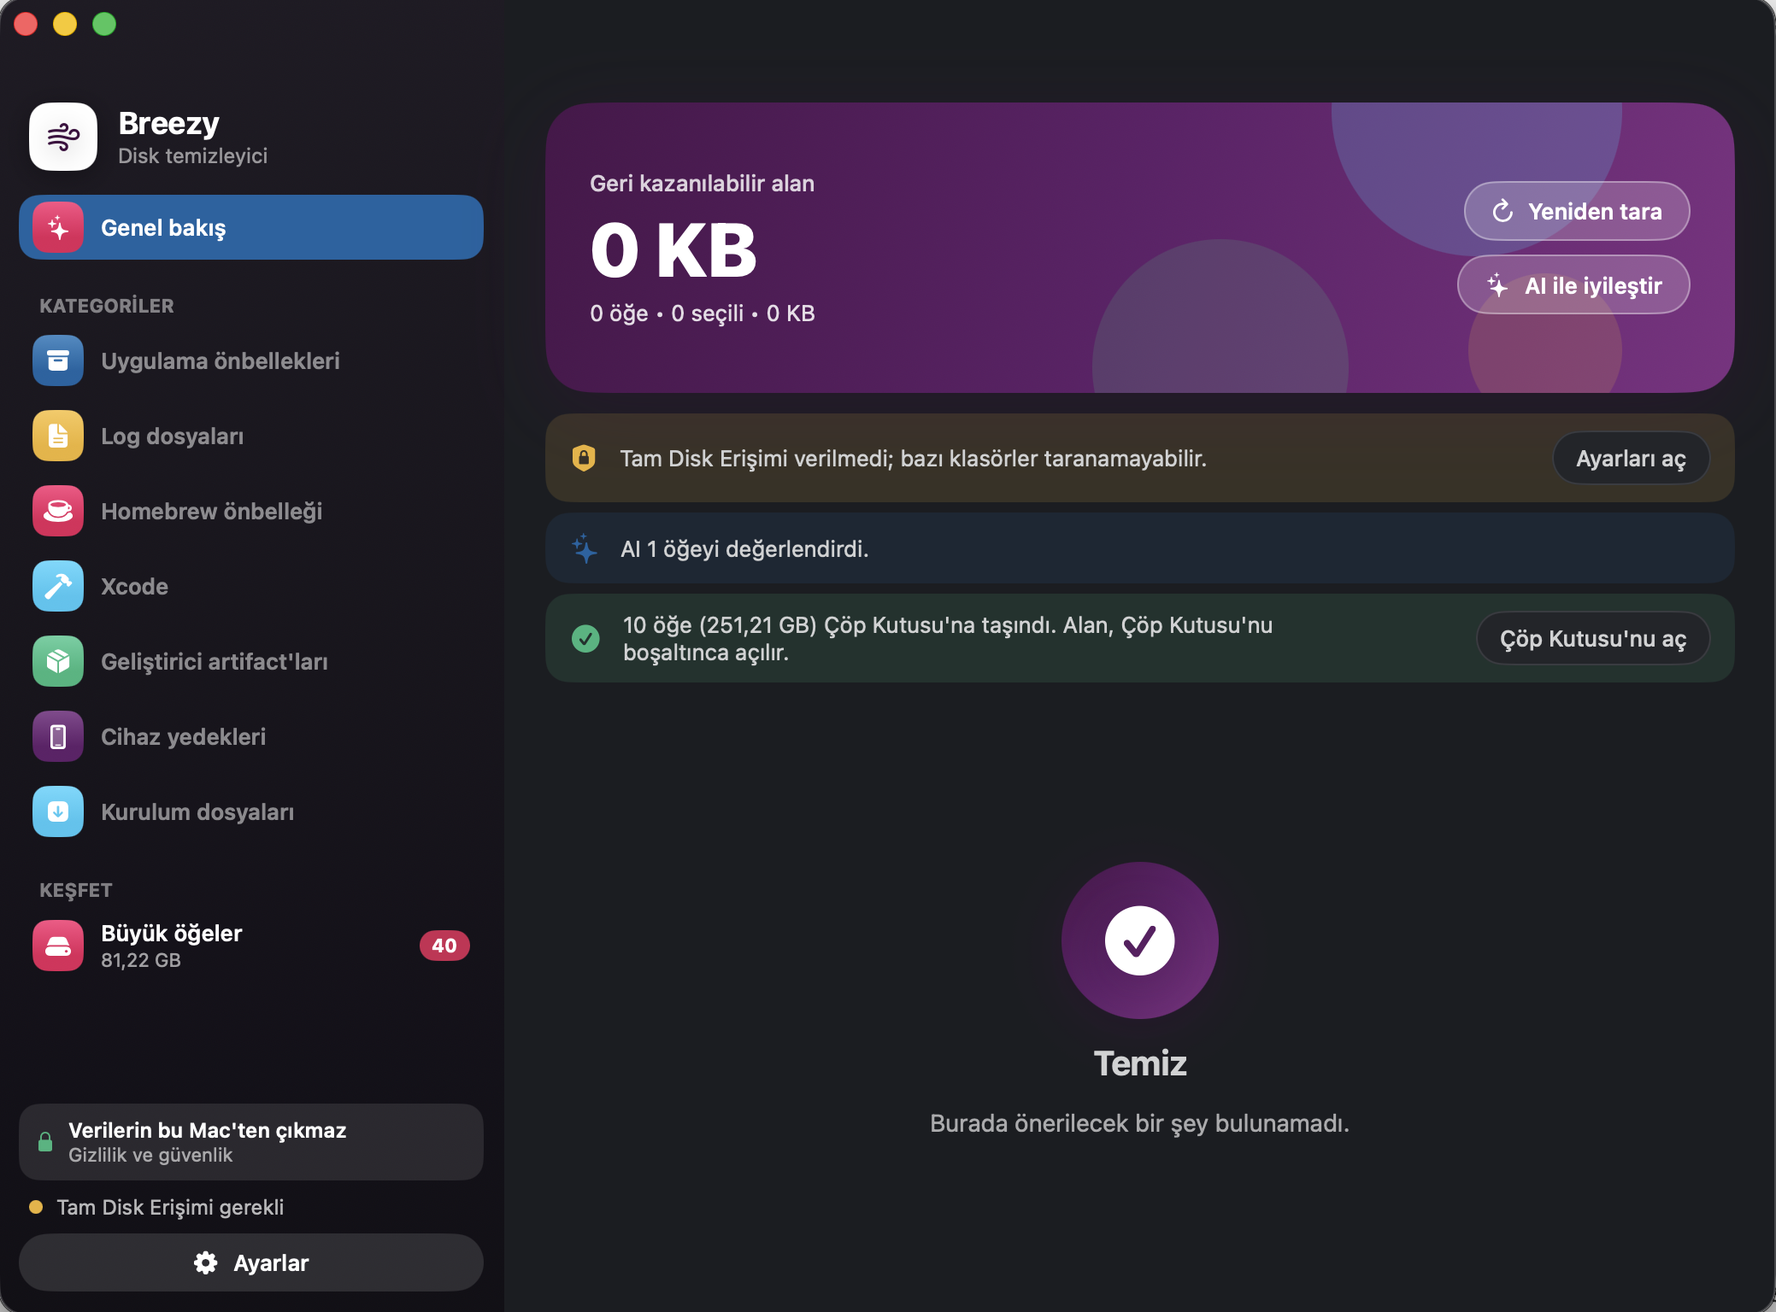
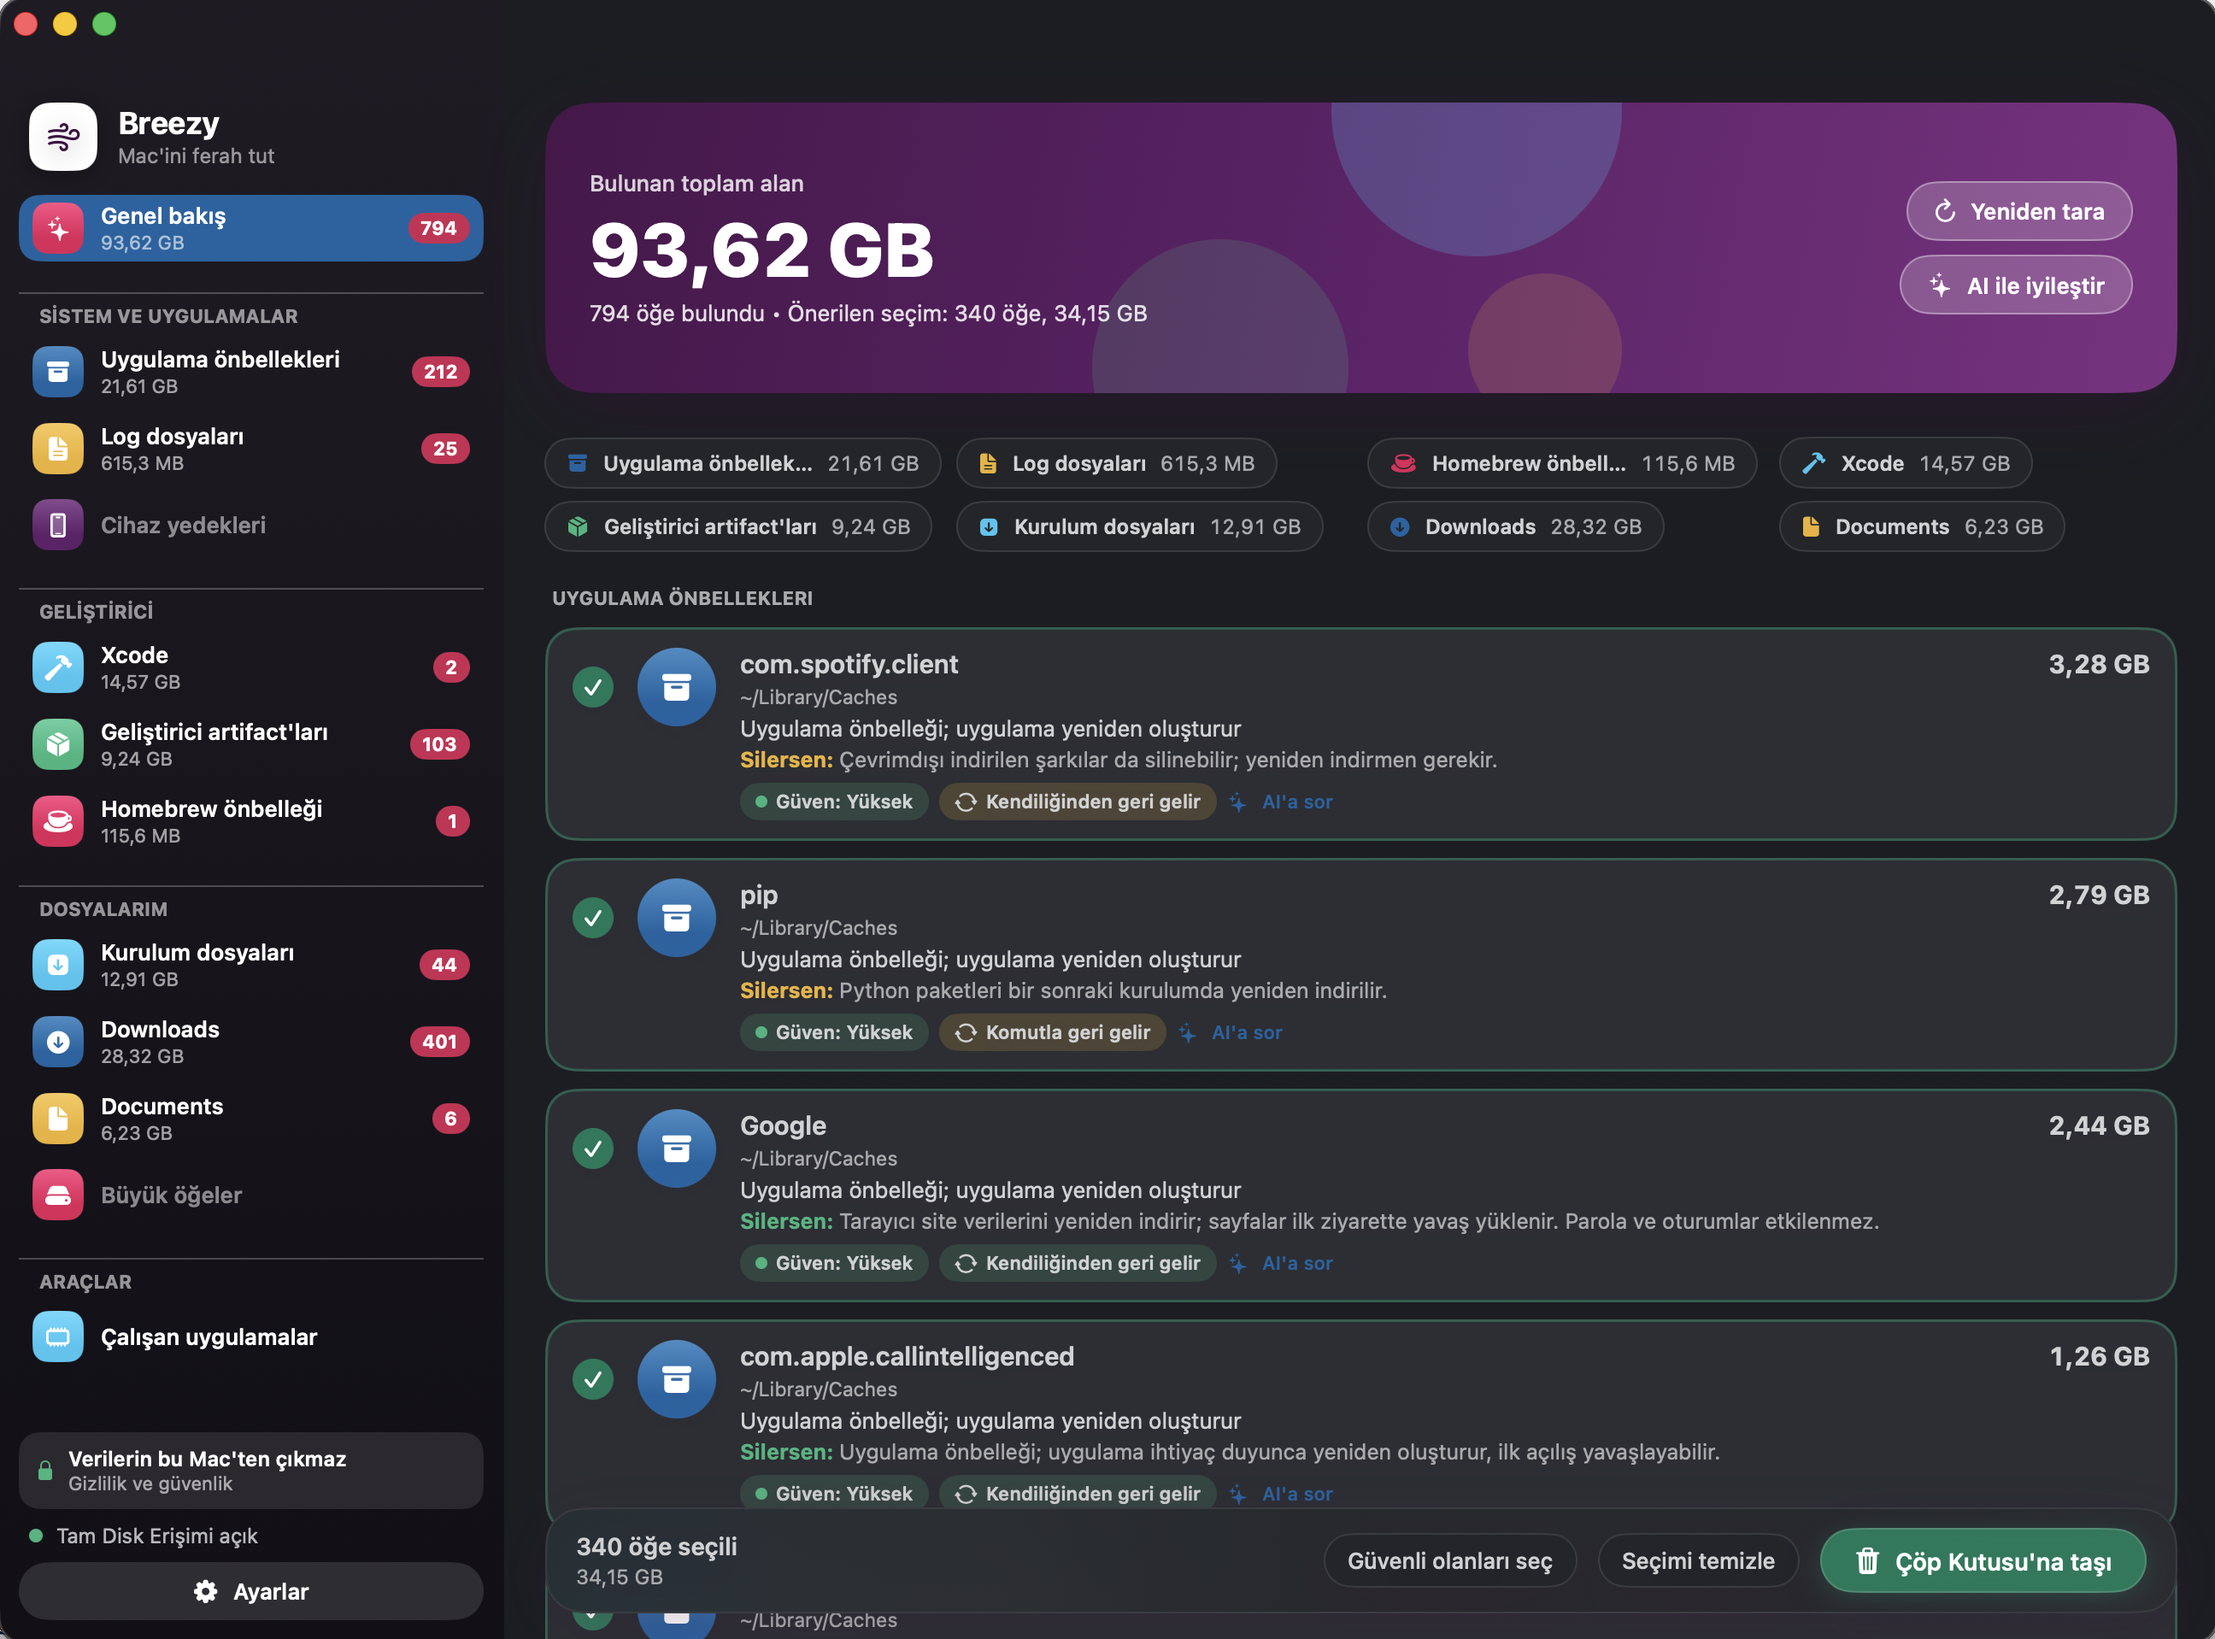
docs: refresh README and screenshot; fix truncated category pills

diff --git a/docs/index.html b/docs/index.html
@@ -160,7 +160,7 @@ footer{border-top:1px solid var(--line);padding:30px 0 50px;color:var(--muted);f
       <div class="card"><div class="ic" style="background:#e01e5a">🔎</div><h3>Büyük öğeler taraması</h3><p>Kural bilmese bile 100 MB / 1 GB / 5 GB üzeri klasör ve dosyaları bulur. Hiçbiri otomatik seçilmez.</p></div>
       <div class="card"><div class="ic" style="background:#2eb67d">🧭</div><h3>"Silersen ne olur?"</h3><p>Kendiliğinden / komutla / geri gelmez. JetBrains, Chrome, Spotify gibi bilinen uygulamalar için özel notlar.</p></div>
       <div class="card"><div class="ic" style="background:#611f69">✨</div><h3>AI danışmanı</h3><p>İsteğe bağlı. Toplu iyileştirme ya da her kartta "AI'a sor". Anthropic, OpenAI uyumlu veya şirket LLM'in.</p></div>
-      <div class="card"><div class="ic" style="background:#ecb22e">🗂</div><h3>Kategori bazlı tarama</h3><p>Soldaki kategoriyi seç, "Sadece bunu tara". Diğer sonuçların ve seçimlerin korunur.</p></div>
+      <div class="card"><div class="ic" style="background:#ecb22e">🗂</div><h3>Kategori bazlı tarama</h3><p>Soldaki kategoriyi seç, "Bu kategoriyi tara". Diğer sonuçların ve seçimlerin korunur.</p></div>
       <div class="card"><div class="ic" style="background:#007a5a">↩</div><h3>Güvenli temizlik</h3><p>Önce önizleme, sonra Çöp Kutusu. Her şey geri alınabilir. Korunan klasörler asla silinemez.</p></div>
     </div>
   </section>

diff --git a/Sources/CleanerApp/Theme.swift b/Sources/CleanerApp/Theme.swift
@@ -242,3 +242,29 @@ enum Format {
         n == 0 ? "0 KB" : ByteCountFormatter.string(fromByteCount: n, countStyle: .file)
     }
 }
+
+/// Öğeleri satır satır sarar; her öğe kendi doğal genişliğinde kalır.
+struct FlowLayout: Layout {
+    var spacing: CGFloat = 8
+
+    func sizeThatFits(proposal: ProposedViewSize, subviews: Subviews, cache: inout ()) -> CGSize {
+        arrange(subviews, width: proposal.width ?? .infinity).size
+    }
+
+    func placeSubviews(in bounds: CGRect, proposal: ProposedViewSize, subviews: Subviews, cache: inout ()) {
+        let r = arrange(subviews, width: bounds.width)
+        for (s, p) in zip(subviews, r.origins) { s.place(at: CGPoint(x: bounds.minX + p.x, y: bounds.minY + p.y), proposal: .unspecified) }
+    }
+
+    private func arrange(_ subviews: Subviews, width: CGFloat) -> (origins: [CGPoint], size: CGSize) {
+        var origins: [CGPoint] = []
+        var x: CGFloat = 0, y: CGFloat = 0, rowH: CGFloat = 0, maxW: CGFloat = 0
+        for s in subviews {
+            let sz = s.sizeThatFits(.unspecified)
+            if x > 0, x + sz.width > width { x = 0; y += rowH + spacing; rowH = 0 }
+            origins.append(CGPoint(x: x, y: y))
+            x += sz.width + spacing; rowH = max(rowH, sz.height); maxW = max(maxW, x - spacing)
+        }
+        return (origins, CGSize(width: maxW, height: y + rowH))
+    }
+}

diff --git a/Sources/CleanerApp/RootView.swift b/Sources/CleanerApp/RootView.swift
@@ -240,7 +240,7 @@ struct RootView: View {
     }
 
     private var categoryPills: some View {
-        LazyVGrid(columns: [GridItem(.adaptive(minimum: 230), spacing: 8, alignment: .leading)], alignment: .leading, spacing: 8) {
+        FlowLayout(spacing: 8) {
                 ForEach(model.grouped, id: \.category) { group in
                     let c = group.category
                     Button { filter = .category(c) } label: {

diff --git a/README.md b/README.md
@@ -1,12 +1,28 @@
+<div align="center">
+
+<img src="docs/icon.png" alt="Breezy" width="96" />
+
 # Breezy
 
-**Mac'ini güvenle ferahlat.** Gereksiz dosyaları bulur, silince ne olacağını açıklar ve yalnızca senin onayınla Çöp Kutusu'na taşır. Verilerin bu Mac'ten çıkmaz.
+**Mac'ini güvenle ferahlat.**
 
-> 🇬🇧 **English summary:** Breezy is a native, privacy-first macOS cleanup app (SwiftUI, macOS 26). It finds caches, logs, build artifacts, large forgotten items and more; explains what happens if you delete each one; and only ever moves things to the Trash after you approve. It makes no network connections unless you enable the optional AI advisor, which only ever sees redacted paths and sizes (never file contents) and only after you approve a preview of the exact message. See [Privacy & security](#gizlilik-ve-güvenlik) and [Build](#derleme-ve-çalıştırma).
+Gereksiz dosyaları bulur, silince ne olacağını açıklar ve yalnızca senin onayınla Çöp Kutusu'na taşır.<br/>
+Verilerin bu Mac'ten çıkmaz.
 
-![Breezy ana ekran](docs/images/image.png)
+![macOS 26](https://img.shields.io/badge/macOS-26-black?logo=apple)
+![Swift 6.2](https://img.shields.io/badge/Swift-6.2-orange?logo=swift)
+![SwiftUI](https://img.shields.io/badge/UI-SwiftUI-blue)
+![Tests](https://img.shields.io/badge/tests-88%20passing-brightgreen)
+![Privacy](https://img.shields.io/badge/telemetry-none-success)
+[![License: MIT](https://img.shields.io/badge/license-MIT-lightgrey)](LICENSE)
 
-Tanıtım sayfası: [`docs/index.html`](docs/index.html)
+[Özellikler](#özellikler) · [Derleme](#derleme-ve-çalıştırma) · [Gizlilik](#gizlilik-ve-güvenlik) · [Mimari](#mimari) · [Tanıtım sayfası](docs/index.html)
+
+<img src="docs/images/image.png" alt="Breezy ana ekran" width="900" />
+
+</div>
+
+> 🇬🇧 **English summary:** Breezy is a native, privacy-first macOS cleanup app (SwiftUI, macOS 26). It finds caches, logs, build artifacts, stale Downloads/Documents and large forgotten items; explains what happens if you delete each one; and only ever moves things to the Trash after you approve. It also warns you when your disk fills up and lists the apps using the most memory. It makes no network connections unless you enable the optional AI advisor, which only ever sees redacted paths and sizes. Build from source with `scripts/make-app.sh`.
 
 ---
 
@@ -40,7 +56,11 @@ Breezy üç şeye odaklanır:
 - **Akıllı tarama (hızlı):** Önbellekler, loglar, Homebrew, Xcode, geliştirici artifact'ları (`node_modules`, `target`, `build`, `.gradle`, Python `venv`/`__pycache__`), iOS/iPad yedekleri, Downloads'taki kurulum dosyaları. Gerçek bir disk üzerinde ~6 sn.
 - **Büyük öğeler (ayrı bölüm, ev dizini):** Kenar çubuğunda **Keşfet → Büyük öğeler**; kendi taraması, eşiği, listesi, seçimi ve temizliği vardır, "Genel bakış" toplamlarına ve seçimine karışmaz.
    Eşiğin (100 MB / 500 MB / **1 GB** / 5 GB) üzerindeki klasör ve dosyaları, kural bilmese bile bulur. Önce günlük klasörlerin (Belgeler, Masaüstü, İndirilenler…) taranır, `Library` en sona kalır. Hiçbiri otomatik seçilmez.
-- **Kategori bazlı tarama:** Kenar çubuğunda bir kategori seç → **"Sadece bunu tara"**; diğer sonuçlar ve seçimler korunur.
+- **Gruplu kenar çubuğu:** Kategoriler *Sistem ve uygulamalar*, *Geliştirici*, *Dosyalarım* ve *Araçlar* altında toplanır. Genel taramadan sonra üstte kategori başına bulunan alan hap'leri görünür.
+- **Kategori bazlı tarama:** Kenar çubuğunda bir kategori seç → **"Bu kategoriyi tara"**; diğer sonuçlar ve seçimler korunur.
+- **Downloads ve Documents:** Downloads'ta 90 günden eski öğeler, Documents'ta 100 MB üstü ve 1 yıldır değişmemiş dosyalar listelenir. Kişisel veri sayılır, hiçbiri önceden seçilmez.
+- **Disk dolu uyarısı:** Disk doluluğu %70'e ulaşırsa macOS bildirimi gönderir. Günde 3 kez (09:00, 14:00, 20:00) bir LaunchAgent kontrol eder, uygulama kapalıyken de çalışır. Tarama yapmaz, yalnızca sistemin toplam/kullanılan alan değerini okur.
+- **Çalışan uygulamalar:** Kenar çubuğunda **Araçlar → Çalışan uygulamalar**; en çok bellek kullanan uygulamaları listeler. **Kapat** uygulamadan nazikçe kapanmasını ister, **Zorla kapat** onay sonrası anında sonlandırır. Finder, Dock ve Breezy'nin kendisi listelenmez.
 - **"Silersen ne olur?" analizi:** Her bulguda geri gelme durumu (kendiliğinden / komutla / geri gelmez), risk ve açıklama. Bilinen uygulamalar için (JetBrains, Chrome, Spotify, Playwright, CocoaPods…) uygulamaya özel notlar.
 - **AI danışmanı (isteğe bağlı):** Toplu iyileştirme veya her kartta **"AI'a sor"**. Anthropic, OpenAI uyumlu (Ollama, LiteLLM, Azure…) veya şirket içi özel HTTP LLM.
 - **Güvenli temizlik:** Önce dry-run, sonra Çöp Kutusu'na taşıma. Geri alınabilir.
@@ -82,6 +102,8 @@ Yerel bir modelle (ör. Ollama) AI'ı kullanırsan **hiçbir veri Mac'inden çı
 | Geliştirici artifact'ları | `node_modules` (yanında `package.json`), `target` (`pom.xml`/`Cargo.toml`), `build` ve `.gradle` (gradle dosyaları), `venv`/`.venv` (`pyvenv.cfg` + manifest), `__pycache__` | Yaşa göre: <7 gün düşük, <30 gün orta, sonrası yüksek |
 | Cihaz yedekleri | `Library/Application Support/MobileSync/Backup/*` | Orta (geri gelmez) |
 | Kurulum dosyaları | `~/Downloads` içinde `.dmg`, `.pkg`, `.iso`, `.ipsw` | Düşük/orta |
+| Downloads | `~/Downloads` üst düzey öğeleri, 90 günden eski (kurulum dosyaları hariç) | Düşük (kullanıcı verisi, seçili gelmez) |
+| Documents | `~/Documents` içinde 100 MB üstü ve 1 yıldır değişmemiş dosyalar | Düşük (kullanıcı verisi, seçili gelmez) |
 | Büyük öğeler | Ev dizininde eşiğin üstündeki en iç klasör ve dosyalar | Düşük (hiçbir zaman seçili değil) |
 
 Dev artifact taraması `Ayarlar → Tarama`'daki proje köklerinde yapılır (varsayılan: `Developer`, `development`, `Projects`, `workspace(s)`, `src`, `code`, `Documents`, `Desktop` içinden var olanlar). Hariç tutulan bir yolun altındaki her şey de hariç sayılır.
@@ -119,7 +141,7 @@ Gereksinimler: **macOS 26**, **Xcode 26.3** (Swift 6.2).
 ```bash
 git clone <repo-url> && cd cleaner-app
 swift build -q          # derle
-swift test -q           # 77 test
+swift test -q           # 88 test
 scripts/make-app.sh     # evrensel (arm64 + x86_64) release derle, build/Breezy.app üret (ad-hoc imza)
 open build/Breezy.app
 ```
@@ -151,7 +173,10 @@ CleanerCore   Finding, Confidence, Impact (saf model)
 DiskScanner   fts tabanlı boyut hesabı, Parallel.map, iptal bayrağı
 Safety        SafetyGate (silmenin zorunlu geçidi)
 Rules         Rule protokolü: ChildrenRule, FixedPathsRule, DevArtifactRule,
-              InstallersRule, LargeItemsRule, KnownApps, RuleEngine
+              InstallersRule, DownloadsRule, DocumentsRule, LargeItemsRule,
+              KnownApps, RuleEngine
+DiskMonitor   Disk doluluk ölçümü, eşik, bildirim ve günlük LaunchAgent kaydı
+RunningApps   Çalışan uygulamalar, bellek ölçümü, Kapat / Zorla kapat
 Preferences   ProviderProfile, SettingsStore, SecretStore (Keychain)
 AI            AIProvider (Anthropic / OpenAI uyumlu / Özel HTTP), AIPrompt, AIScorer
 Cleaning      Cleaner (dry-run + Çöp Kutusu), WorkspaceTrasher
@@ -170,6 +195,8 @@ Tasarım belgesi: [`docs/superpowers/specs/`](docs/superpowers/specs), uygulama 
 ## Sınırlar ve yol haritası
 
 **Bugünkü sınırlar**
+- Disk uyarısı eşiği şimdilik sabit (%70); uygulama içinden ayarlanabilmesi sonraki sürümde.
+- "Çalışan uygulamalar" çok süreçli uygulamalarda (ör. Chrome) yalnızca ana sürecin belleğini gösterir.
 - Yalnızca **ev dizinini** tarar (harici diskler ve sistem alanı kapsam dışı).
 - Toplu "AI ile iyileştir" tek istekte en büyük 40 belirsiz öğeyi değerlendirir.
 - Hard link'ler boyutta iki kez sayılabilir.
